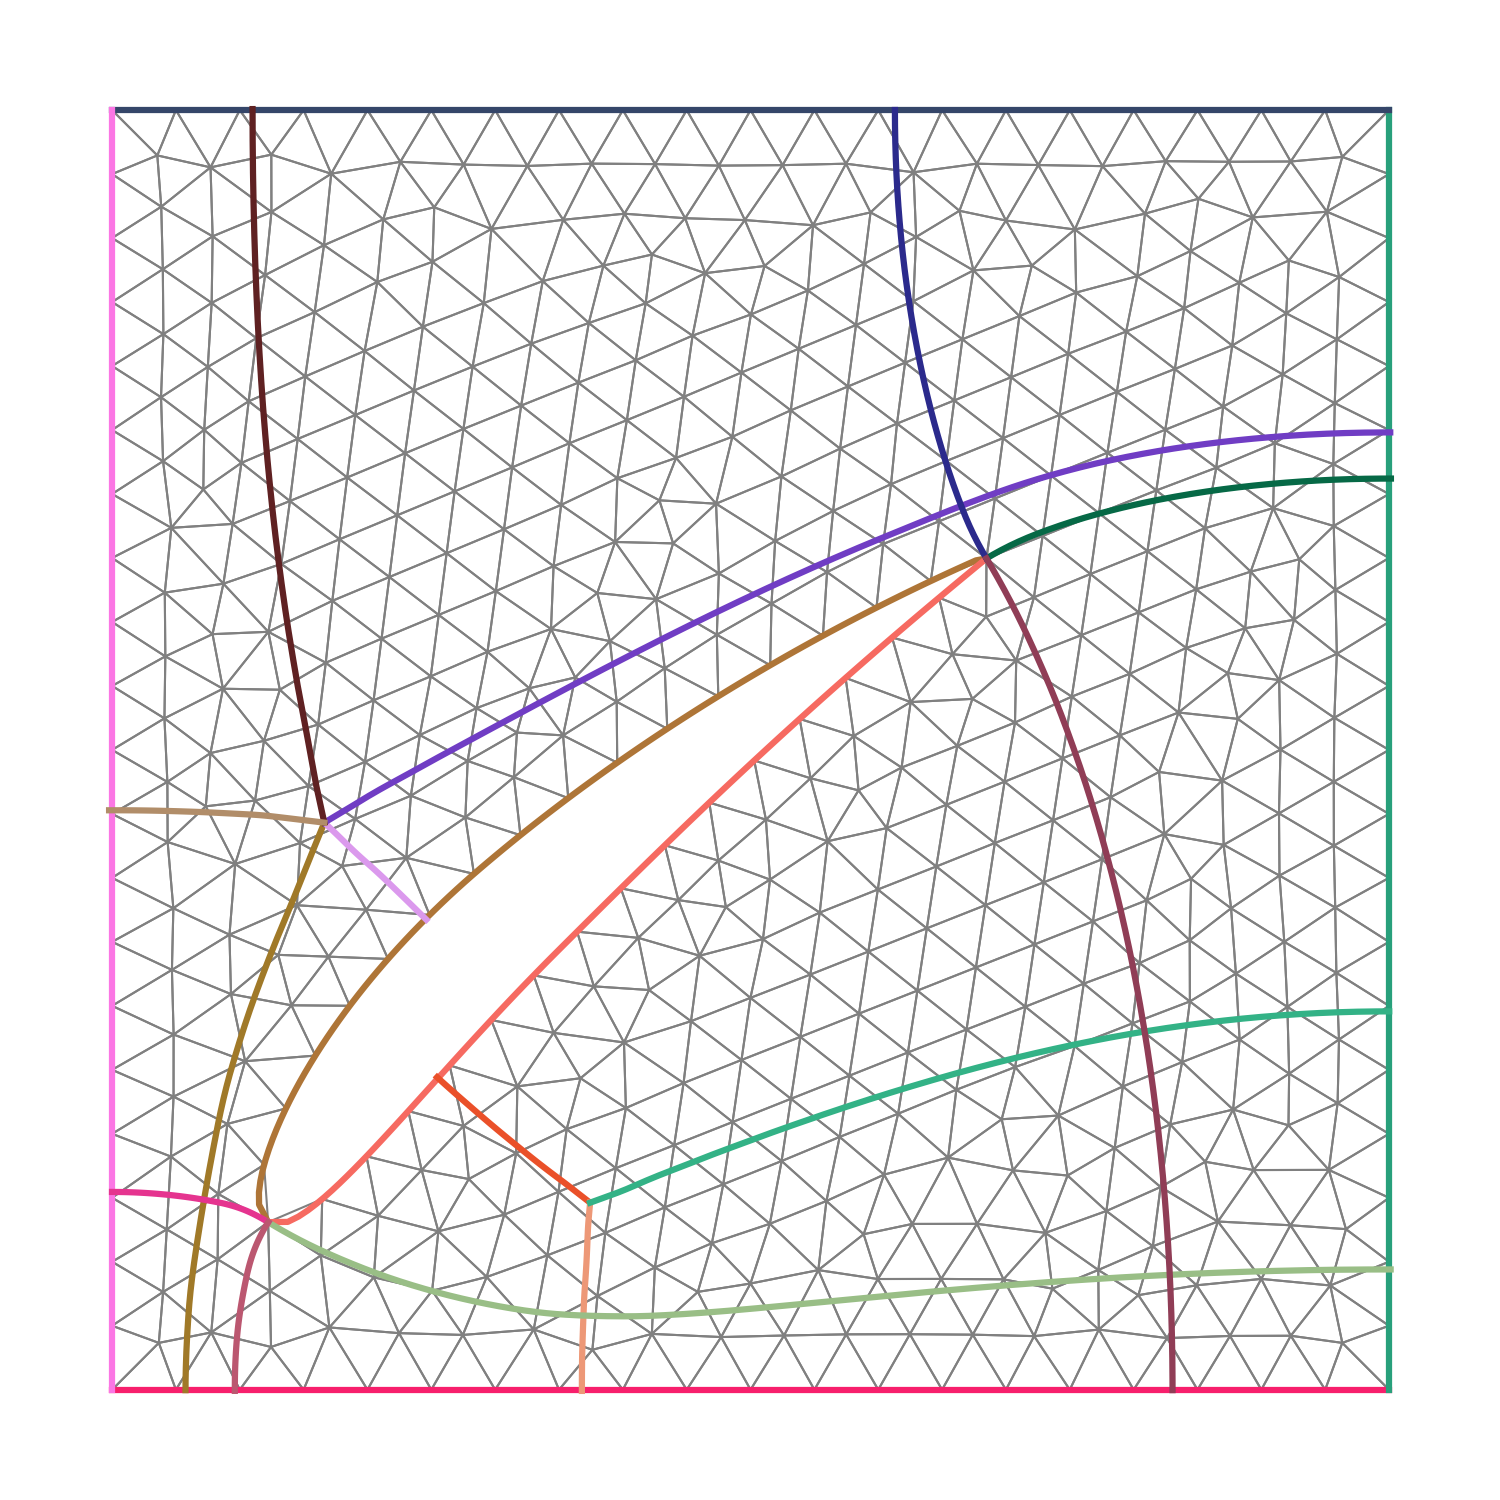
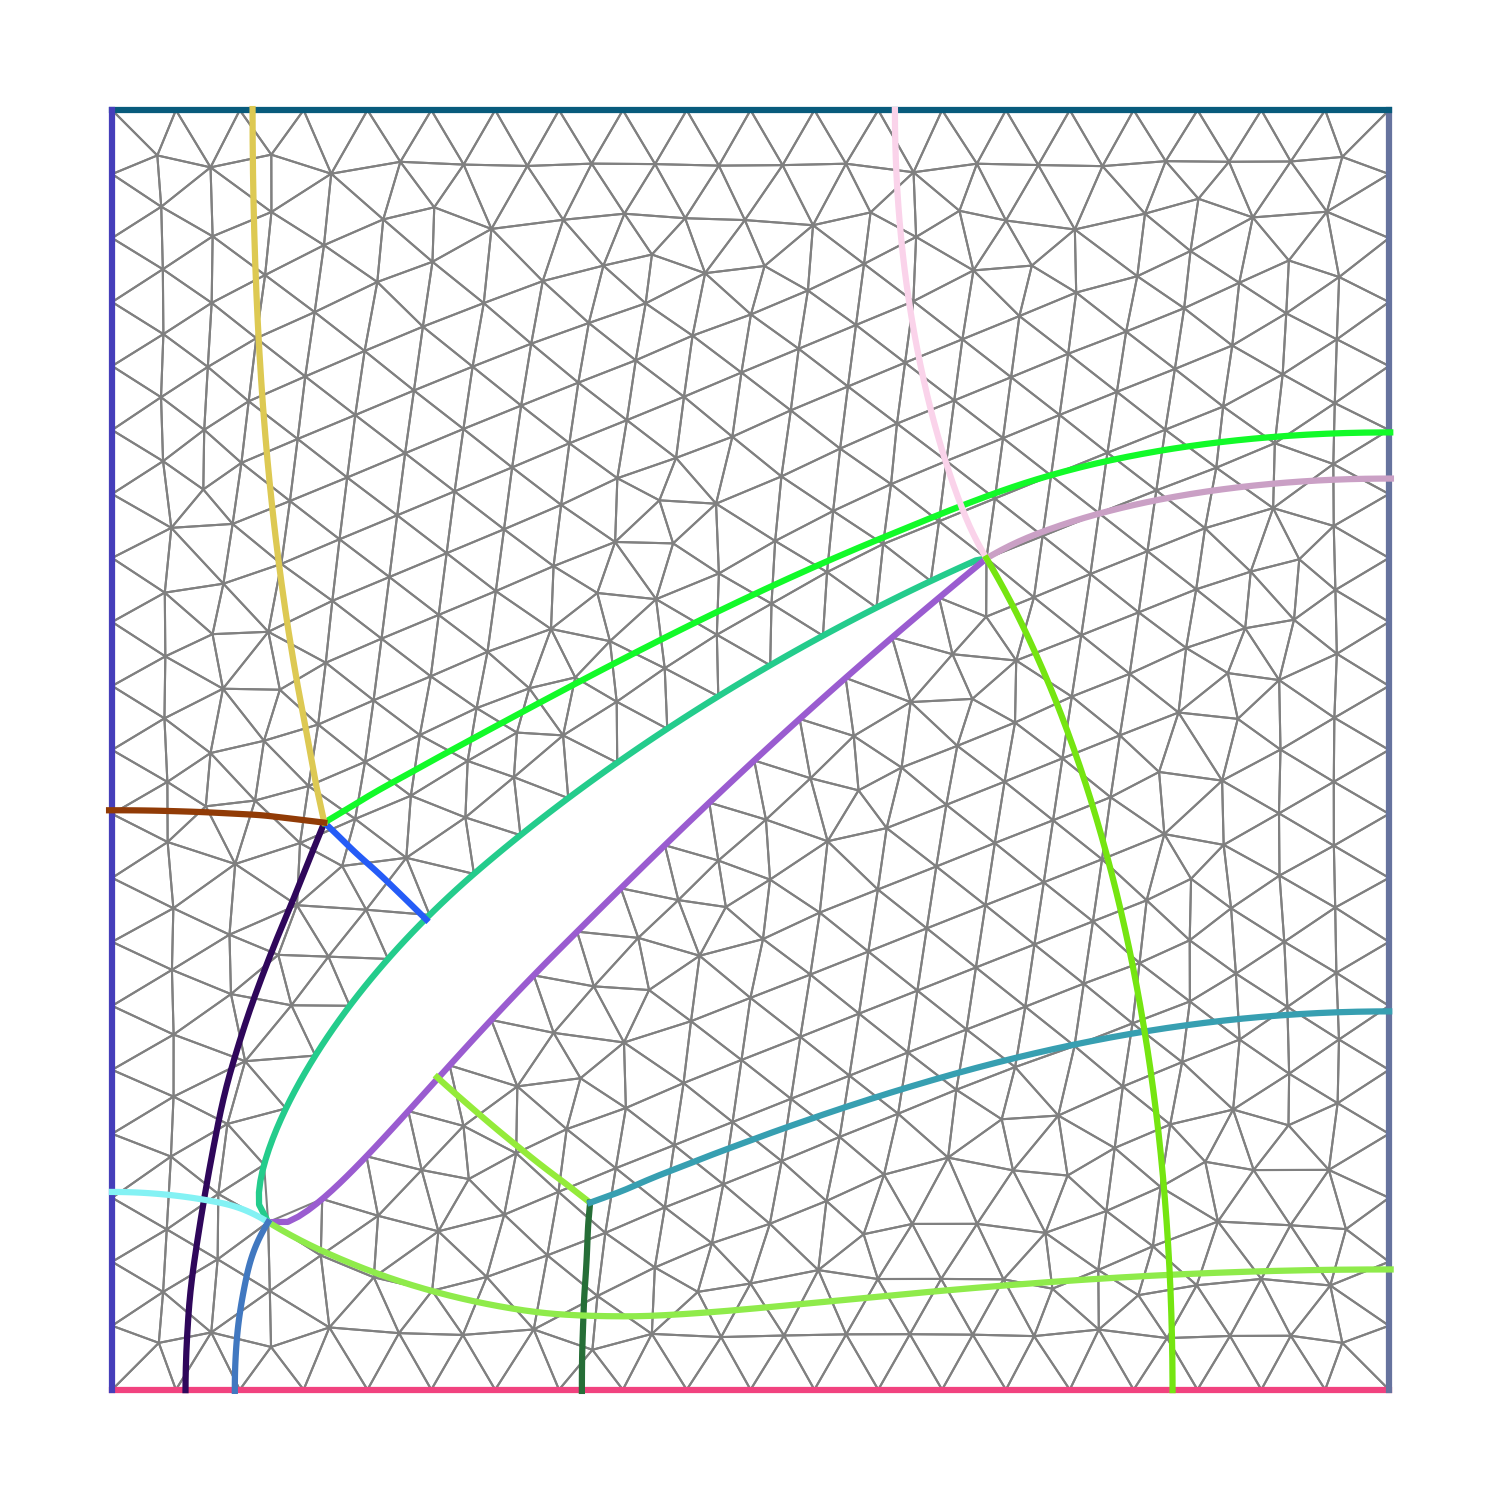
added transfinite interpolation

diff --git a/tools/plotting_tools.py b/tools/plotting_tools.py
@@ -271,7 +271,7 @@ def plot_vector_field(mesh, init=False, output_file="./figures/vector_field.png"
     # plt.close()
 
 
-def plot_faces(mesh, output_file="./figures/faces.png", face_color=None):
+def plot_faces(mesh, output_file="./figures/faces.png", colored=None):
     import matplotlib.pyplot as plt
     import numpy as np
 
@@ -279,17 +279,17 @@ def plot_faces(mesh, output_file="./figures/faces.png", face_color=None):
     plt.figure(figsize=(8, 8))
     for face_ids in mesh.faces.T:
         face = nodes[face_ids, :]
-        if face_color:
+        if colored:
             face_color = np.random.rand(3,)  # generate random rgb values
 
         plt.fill(face[:, 0], face[:, 1], color=face_color, edgecolor='gray', linewidth=0.5)
 
-    plt.xlabel('X')
-    plt.ylabel('Y')
-    plt.gca().set_aspect('equal', adjustable='box')
-    plt.grid(True)
+    plt.axis('off')
+    plt.axis('equal')  # Ensure equal scaling for x and y
+    plt.grid(True, linestyle='--', alpha=0.5)
+    plt.tight_layout()
 
-    plt.savefig(output_file, dpi=300)
+    plt.savefig(output_file, dpi=300, transparent=True)
 
 
 def plot_one_separatrices(mesh, ID, output_file="./figures/separatrix.png"):

diff --git a/plot_evaluation.py b/plot_evaluation.py
@@ -26,7 +26,7 @@ plot_cross_field(mesh, init=False, output_file=f"./figures/cross_field_propagate
 plot_singularities(mesh, output_file=f"./figures/mesh_singularities_{file}.png")
 plot_streamlines(mesh, output_file=f"./figures/streamlines_colored_{file}.png", colored=True)
 plot_intersections(mesh_pp, output_file=f"./figures/intersections_{file}.png")
-plot_faces(blocked_mesh, output_file=f"./figures/faces_{file}.png")
+plot_faces(blocked_mesh, output_file=f"./figures/faces_{file}.png", colored=True)
 
 len(blocked_mesh.edge_subdomain_points)
 
